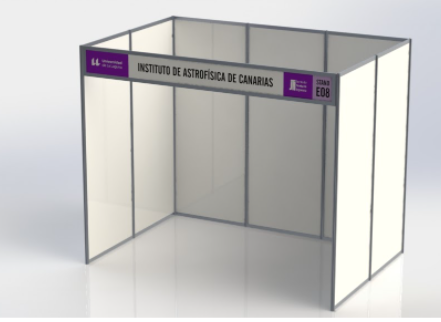
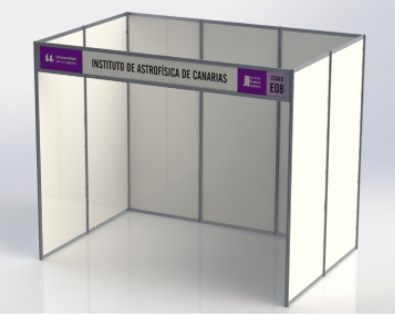
Changed Stands images

Changed region(s): [[0.0608, 0.0286, 0.9418, 1.0], [0.881, 0.9714, 1.0, 1.0], [0.0, 0.9714, 0.1215, 1.0]]

diff --git a/pages/stands.js b/pages/stands.js
@@ -154,6 +154,8 @@ const ImageDiv = styled.div`
   @media (max-width: 760px) {
     width: 93vw;
   }
+  height: 90%;
+  width: 100%;
 `;
 
 const Title = styled.h2`
